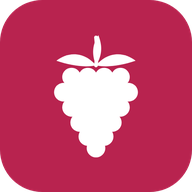
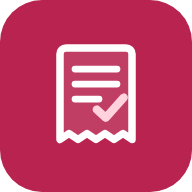
Contabilitate privată: instalare ca aplicație, iconiță proprie
Claude-Session: https://claude.ai/code/session_01M1xBRTAcgbZUpZiSnxzuf6

diff --git a/contabilitate-test/index.html b/contabilitate-test/index.html
@@ -7,8 +7,14 @@
 <script src="vendor/jspdf.umd.min.js"></script>
 <link rel="manifest" href="manifest.webmanifest">
 <meta name="theme-color" content="#B8234F">
-<link rel="icon" href="icon-192.png">
-<link rel="apple-touch-icon" href="icon-192.png">
+<link rel="icon" href="favicon-32.png" sizes="32x32">
+<link rel="icon" href="icon-192.png" sizes="192x192">
+<link rel="apple-touch-icon" href="apple-touch-icon.png">
+<meta name="apple-mobile-web-app-capable" content="yes">
+<meta name="mobile-web-app-capable" content="yes">
+<meta name="apple-mobile-web-app-title" content="Contabilitate">
+<meta name="apple-mobile-web-app-status-bar-style" content="default">
+<meta name="description" content="Facturi, Lieferscheine, E-Rechnung, casă și contabilitate pentru firme mici din Germania și Austria.">
 <style>
 :root{
   --bg:#f6f4f2; --card:#fff; --ink:#1d1b1a; --muted:#6f6a66; --line:#e5e0dc;
@@ -371,6 +377,11 @@ input.den{-moz-appearance:textfield;appearance:textfield}
     <div class="sticky-actions"><button class="btn primary grow" id="s-save">Salvează setările</button></div>
 
     <h2>Sincronizare între dispozitive</h2>
+    <div class="card" id="install-card">
+      <h2 style="margin-top:0">Aplicația pe acest dispozitiv</h2>
+      <div class="hint" id="in-txt" style="margin-top:0"></div>
+      <div class="row" style="margin-top:8px"><button class="btn primary hidden" id="in-btn">📲 Instalează aplicația</button></div>
+    </div>
     <div class="card" id="sync-card">
       <div class="hint" style="margin:0 0 10px">Datele stau pe fiecare dispozitiv și se sincronizează prin cloud-ul tău (telefon, tabletă, PC). Programul merge și fără internet.</div>
       <div class="fld"><label class="f">Unde se sincronizează</label>
@@ -3800,6 +3811,12 @@ I18N_DE.push(["📥 Import casa Bizerba (folder)", "📥 Bizerba-Kasse importier
   ["Unele case nu au piață – se trec fără oraș.", "Manche Kassen haben keinen Markt – sie werden ohne Ort übernommen."], ["Bonuri din ", "Bons vom "], [" până în ", " bis "],
   [" zile noi", " neue Tage"], [" zile există deja (bifează doar dacă vrei să le înlocuiești cu sumele din casă)", " Tage gibt es schon (nur ankreuzen, wenn sie durch die Kassenbeträge ersetzt werden sollen)"],
   ["Trecut la Casă: ", "In die Kasse übernommen: "], [" rapoarte lunare TVA", " monatliche USt-Berichte"], [" înlocuite", " ersetzt"]);
+I18N_DE.push(["Aplicația pe acest dispozitiv", "Die App auf diesem Gerät"], ["📲 Instalează aplicația", "📲 App installieren"],
+  ["✓ Aplicația e instalată. O deschizi din lista de aplicații, ca pe oricare alta. Merge și fără internet.", "✓ Die App ist installiert. Du öffnest sie wie jede andere App. Sie funktioniert auch ohne Internet."],
+  ["Instalează aplicația: apare cu iconiță pe ecran / în meniul Start, se deschide în fereastra ei și merge și fără internet.", "App installieren: Sie erscheint mit Symbol auf dem Bildschirm / im Startmenü, öffnet sich im eigenen Fenster und funktioniert auch ohne Internet."],
+  ["Pe iPhone/iPad: deschide pagina în ", "Auf iPhone/iPad: Seite in "], [", apasă ", " öffnen, auf "], ["Partajare", "Teilen"], [" (pătratul cu săgeata în sus) → ", " (Quadrat mit Pfeil nach oben) tippen → "], ["Adaugă pe ecranul principal", "Zum Home-Bildschirm"],
+  ["Ca s-o instalezi: în meniul browserului (⋮ sau ≡) alege ", "Zum Installieren im Browser-Menü (⋮ oder ≡) "], ["Instalează aplicația", "App installieren"], [". Cel mai bine merge în Chrome sau Edge.", " wählen. Am besten in Chrome oder Edge."],
+  ["Aplicația a fost instalată.", "Die App wurde installiert."]);
 const I18N_SHORT = {"mai": "Mai", "noi.": "Nov.", "oct.": "Okt.", "ian.": "Jan.", "feb.": "Feb.", "mar.": "März", "apr.": "Apr.", "iun.": "Jun.", "iul.": "Jul.", "aug.": "Aug.", "sept.": "Sept.", "dec.": "Dez.", "Ieși": "Verlassen", "Tot": "Alle", "Cota": "Satz", "Data": "Datum", "Net": "Netto", "Brut": "Brutto", "TVA": "USt.", "Total": "Summe", "Luna": "Monat", "Zile": "Tage", "Venit": "Einnahme", "Plată": "Zahlung", "Bancă": "Bank", "Card": "Karte", "Numerar": "Bar", "Stoc": "Bestand", "Casă": "Kasse", "Oraș": "Ort", "Țara": "Land", "Țară": "Land", "Sumă": "Betrag", "l": "l", "kg": "kg", "valoare": "Wert", "mai.": "Mai", "sep.": "Sep."};
 const UI_DEFAULT = (typeof window.__UI_DEFAULT__ === "string") ? window.__UI_DEFAULT__ : "ro";
 let uiLang = UI_DEFAULT, i18nBusy = false;
@@ -5144,6 +5161,24 @@ async function bizerbaImport(fileList) {
 document.addEventListener("change", e => { const t = e.target; if (!t.matches || !t.matches("input[type=file][data-bz]")) return; const f = [...t.files]; t.value = ""; bizerbaImport(f); });
 
 
+
+/* ================= instalare ca aplicație ================= */
+let installEvt = null;
+const isStandalone = () => matchMedia("(display-mode: standalone)").matches || navigator.standalone === true;
+function renderInstall() {
+  const t = $("#in-txt"), b = $("#in-btn"); if (!t) return;
+  const ua = navigator.userAgent, ios = /iPhone|iPad|iPod/.test(ua) || (/Macintosh/.test(ua) && navigator.maxTouchPoints > 1);
+  b.classList.toggle("hidden", !installEvt || isStandalone());
+  t.innerHTML = isStandalone() ? "✓ Aplicația e instalată. O deschizi din lista de aplicații, ca pe oricare alta. Merge și fără internet."
+    : installEvt ? "Instalează aplicația: apare cu iconiță pe ecran / în meniul Start, se deschide în fereastra ei și merge și fără internet."
+    : ios ? "Pe iPhone/iPad: deschide pagina în <b>Safari</b>, apasă <b>Partajare</b> (pătratul cu săgeata în sus) → <b>Adaugă pe ecranul principal</b>."
+    : "Ca s-o instalezi: în meniul browserului (⋮ sau ≡) alege <b>Instalează aplicația</b> / <b>Adaugă pe ecranul principal</b>. Cel mai bine merge în Chrome sau Edge.";
+  i18nNode(t);
+}
+addEventListener("beforeinstallprompt", e => { e.preventDefault(); installEvt = e; renderInstall(); });
+addEventListener("appinstalled", () => { installEvt = null; renderInstall(); toast("Aplicația a fost instalată."); });
+$("#in-btn").addEventListener("click", async () => { if (!installEvt) return; installEvt.prompt(); try { await installEvt.userChoice; } catch (e) {} installEvt = null; renderInstall(); });
+renderInstall();
 /* ================= pornire ================= */
 (async function start() {
   await Store.init();

diff --git a/contabilitate-test/sw.js b/contabilitate-test/sw.js
@@ -1,8 +1,8 @@
 // Contabilitate privată – lucrează și fără internet.
 // Aplicația se ia întâi de pe internet (actualizări imediate); fără semnal, din copia salvată.
-const CACHE = "cp-v3";
+const CACHE = "cp-v4";
 const BIG = ["./models/det.onnx", "./models/rec.onnx", "./models/keys.txt", "./ort/ort-wasm-simd-threaded.wasm", "./ort/ort-wasm-simd-threaded.mjs", "./cp-scan.js"];
-const SHELL = ["./", "./index.html", "./cp-core.js", "./manifest.webmanifest", "./icon-192.png", "./icon-512.png", "./vendor/jspdf.umd.min.js", "./vendor/exceljs.min.js", "./vendor/msal-browser.min.js"];
+const SHELL = ["./", "./index.html", "./cp-core.js", "./manifest.webmanifest", "./icon-192.png", "./icon-512.png", "./icon-maskable-192.png", "./icon-maskable-512.png", "./apple-touch-icon.png", "./favicon-32.png", "./vendor/jspdf.umd.min.js", "./vendor/exceljs.min.js", "./vendor/msal-browser.min.js"];
 self.addEventListener("install", e => e.waitUntil(caches.open(CACHE).then(c => c.addAll(SHELL).then(() => c.addAll(BIG).catch(() => {}))).then(() => self.skipWaiting())));
 self.addEventListener("activate", e => e.waitUntil(caches.keys().then(ks => Promise.all(ks.filter(k => k !== CACHE).map(k => caches.delete(k)))).then(() => self.clients.claim())));
 self.addEventListener("fetch", e => {
